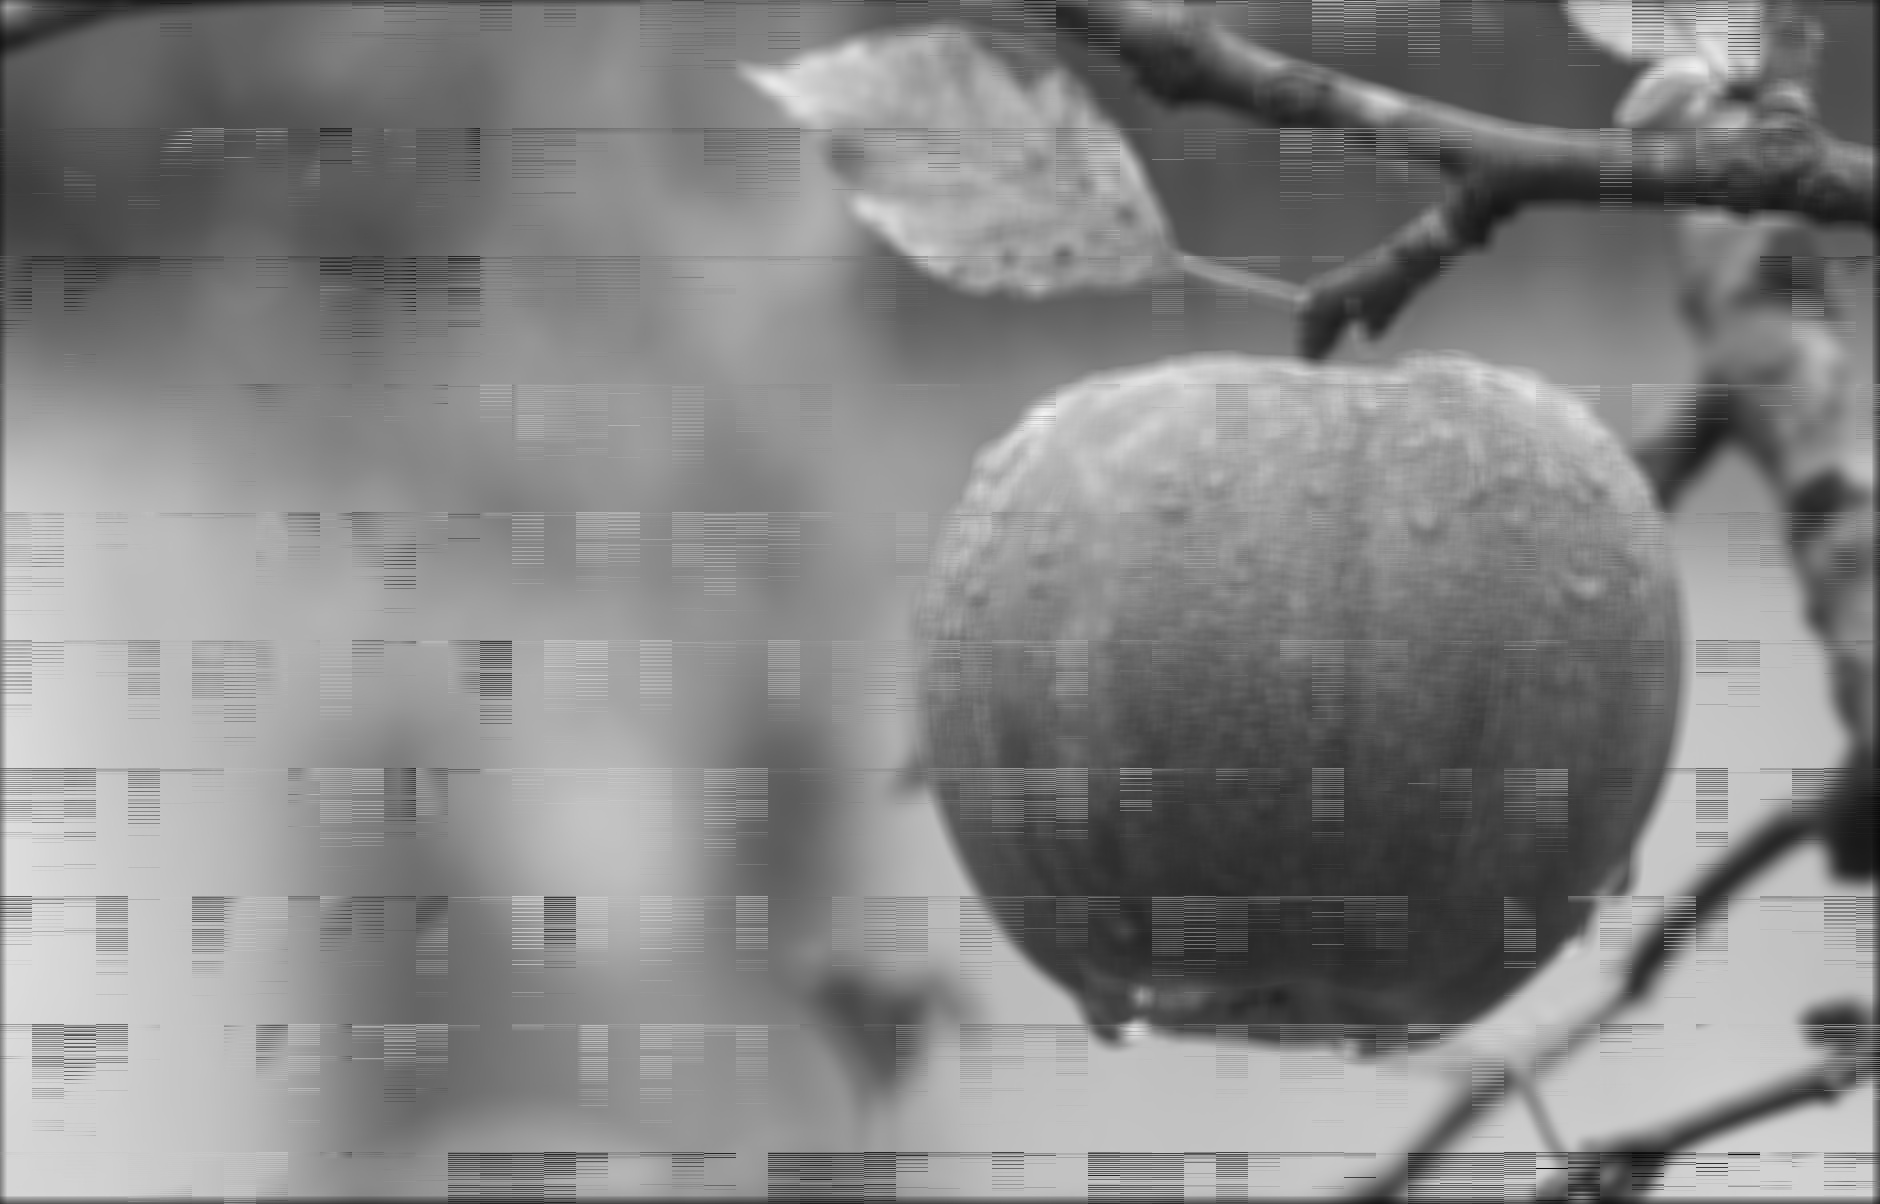
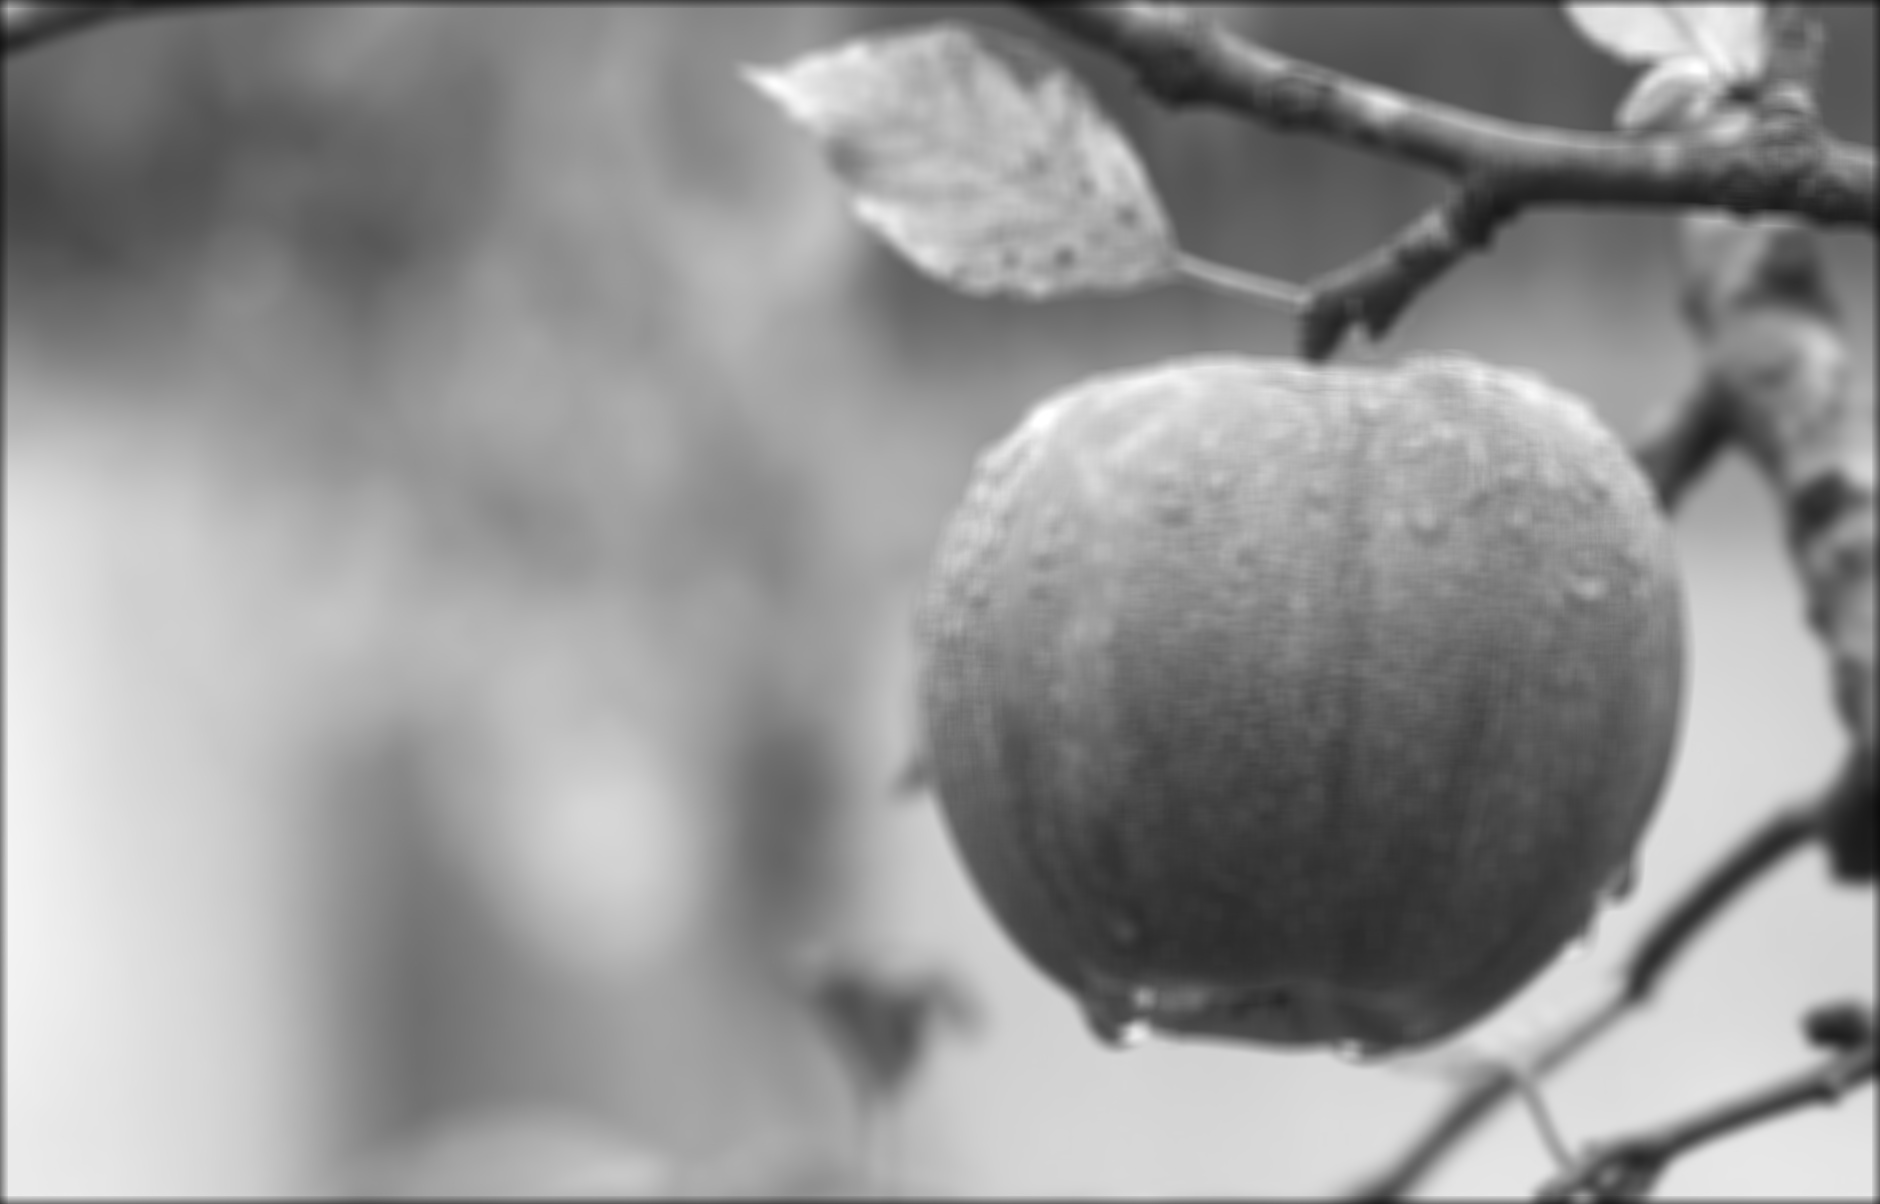
cooperative groups block sync removed the wierd lines, nvcc told me syncing was unnecessary (using __synchtreads) i guess there is something fishy there

diff --git a/conv2d/main.cpp b/conv2d/main.cpp
@@ -19,7 +19,6 @@ int main(void){
     std::cout<<"starting\n";
 
     std::string image_path = cv::samples::findFile("gray_apple.jpeg");
-
     cv::Mat img = cv::imread(image_path, cv::IMREAD_GRAYSCALE);
     
     if(img.empty())
@@ -48,11 +47,18 @@ int main(void){
     assert((img_padded.cols & (BLOCKDIM * STEP - 1)) == 0);
 
     // gaussian_kernel1D = gaussian_kernel1D conv dirac;
-    cv::Mat dirac(cv::Size(1, KERNELRADIUS*2 + 1), CV_32FC1, cv::Scalar(0));
-    dirac.at<float>(1, KERNELRADIUS) = 1;
+    cv::Mat dirac(cv::Size(1, KERNELRADIUS * 2 + 1), CV_32FC1, cv::Scalar(0));
+    dirac.at<float>(KERNELRADIUS) = 1;
     cv::Mat gaussian_kernel;
-    cv::GaussianBlur(dirac, gaussian_kernel, cv::Size(1, KERNELRADIUS*2 + 1), 15);
+    cv::GaussianBlur(dirac, gaussian_kernel, cv::Size(1, KERNELRADIUS * 2 + 1), 15);
+
+    std::cout<<dirac;
+    std::cout<<"\n"<<gaussian_kernel << "\n";/*
     
+    cv::Mat test;
+    cv::GaussianBlur(img_float, test, cv::Size(1, KERNELRADIUS*2 + 1), 15);
+    imshow("test", test);*/
+
     // variables for host
     float* h_input, *h_output, *h_kernel;
     int buf_size = img_padded.rows * img_padded.cols * sizeof(float);
